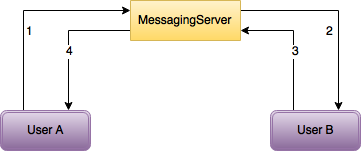
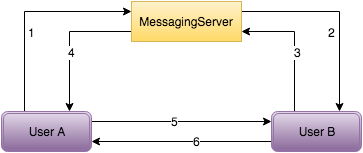
narrow scope

diff --git a/README.md b/README.md
@@ -7,6 +7,12 @@ WebRTC compliant signal exchange implementation based on HTTP and STOMP protocol
   <img src="https://github.com/zanni/messaging-server/raw/master/webrtc.png?raw=true" alt="Sublime's custom image"/>
 </p>
 
+	1: User A send message M for User B to server S
+	2: S relay M to B
+	3: B send response M2 for A to S
+	4: S relay M2 to A
+	5/6: Bidirectionnal peer connections are established
+
 This prototype permits communications 1 to 4  between Client A, Client B and Application Server, in the previous schema
 
 ## Implementation
